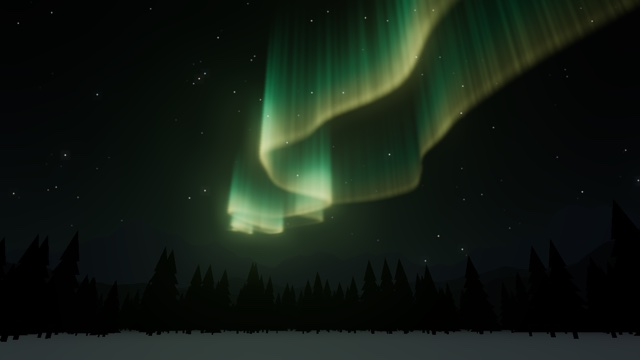
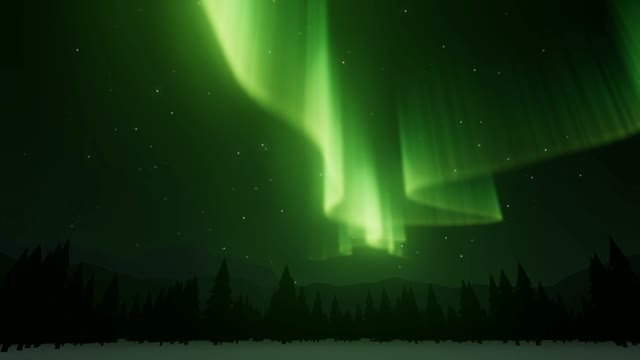
aurora の色のプリセットを本物のオーロラの写真に合わせる
緑を青緑から酸素の輝線に近い色へ寄せ、黄のプリセットをやめる。
上部の赤紫・ピンクの下縁・全面の赤を足し、プリセット名を英語にする。

diff --git a/docs/specs/aurora.md b/docs/specs/aurora.md
@@ -37,10 +37,15 @@
 
 | プリセット | 確率 | 色 |
 |---|---|---|
-| 緑 | 80% | 下の縁が黄緑で、上まで緑 |
-| 赤（下が緑） | 10% | 下の縁が黄緑、中ほどが緑、上の方が赤 |
-| 赤（下が黄） | 10% | 下の縁と中ほどが黄、上の方が赤 |
+| Green | 50% | 下の縁がわずかに黄緑で、上まで緑 |
+| Green with Purple Top | 20% | 下から中ほどが緑、上の方が赤紫 |
+| Green with Pink Edge | 20% | 下の縁だけが細くピンクで、上まで緑 |
+| All Red | 10% | 全体が深い赤で、下の縁は橙寄り、上の方は少し紫寄り（まれな、高い所の酸素だけが光るオーロラ） |
 
+- 色は本物のオーロラの写真の見え方に合わせる。肉眼では暗いオーロラは灰色に近く、作品として地味になるので、彩度は高いままにする。
+- 緑は酸素の 557.7 nm（リニアで約 `[0.2, 1, 0]`）に寄せる。青を 0 にするとネオンのように強すぎるので、少し足す。
+- 黄のプリセットは置かない。本物の黄は、緑と同じ高さに窒素の赤が重なるときだけの珍しい色で、緑を挟まず赤へ続くこともない。
+- 青・紫のプリセットは置かない。本物の青は、上空に日が当たる薄明の時間帯などに限られる。上部の赤紫だけは、緑と重なる所が茶色く濁るのを避けるため、見栄えを優先して赤に青を足す。
 - トーンマッピングで色が薄まるので鮮やかな値にする。上の方は暗いので、赤は 1 より大きい値にする。
 - 緑と赤を加算で混ぜると白っぽくなるので、中ほどから上の方へは狭い幅（高さの 0.25）で移り変わらせる。
 
